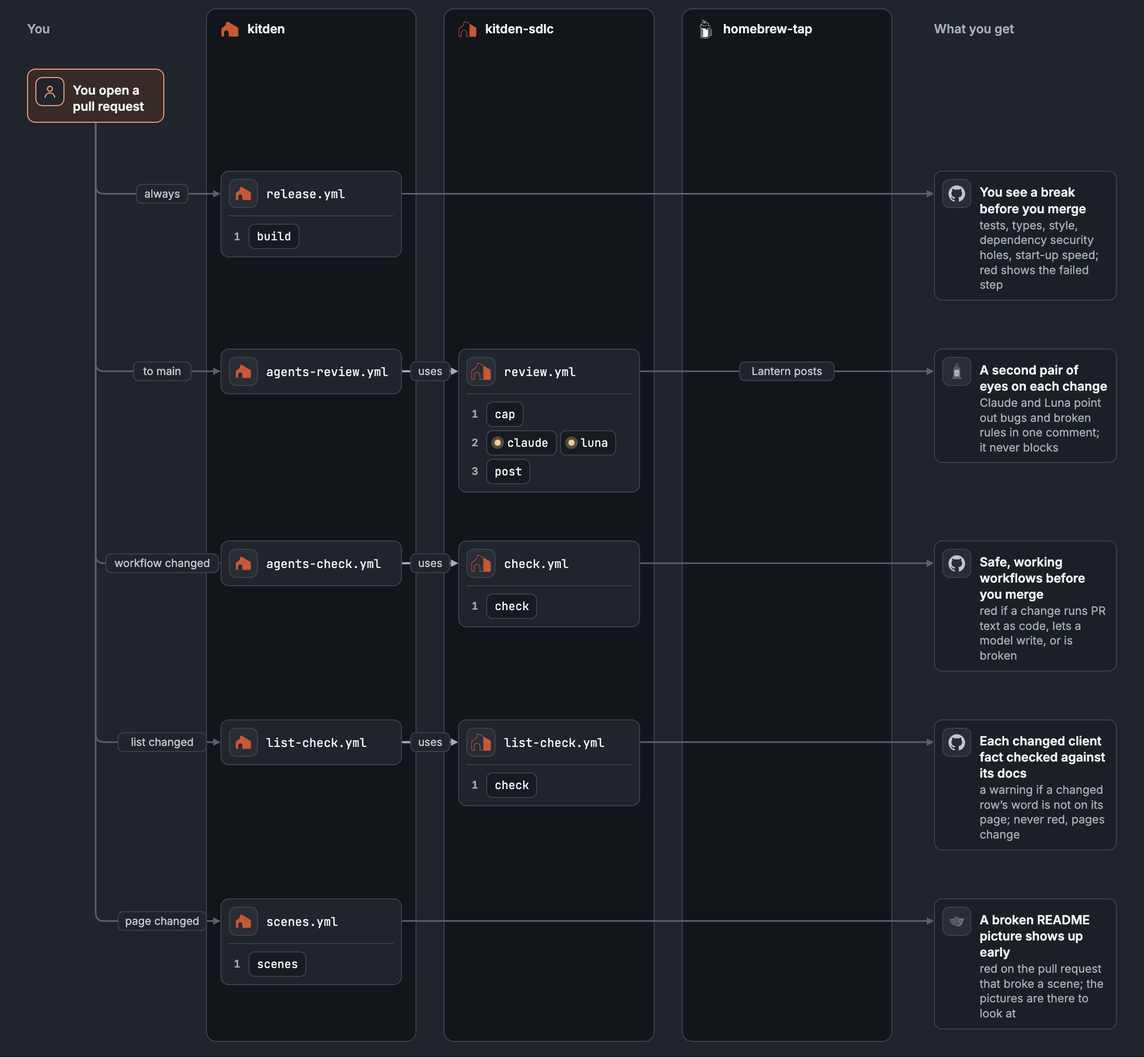
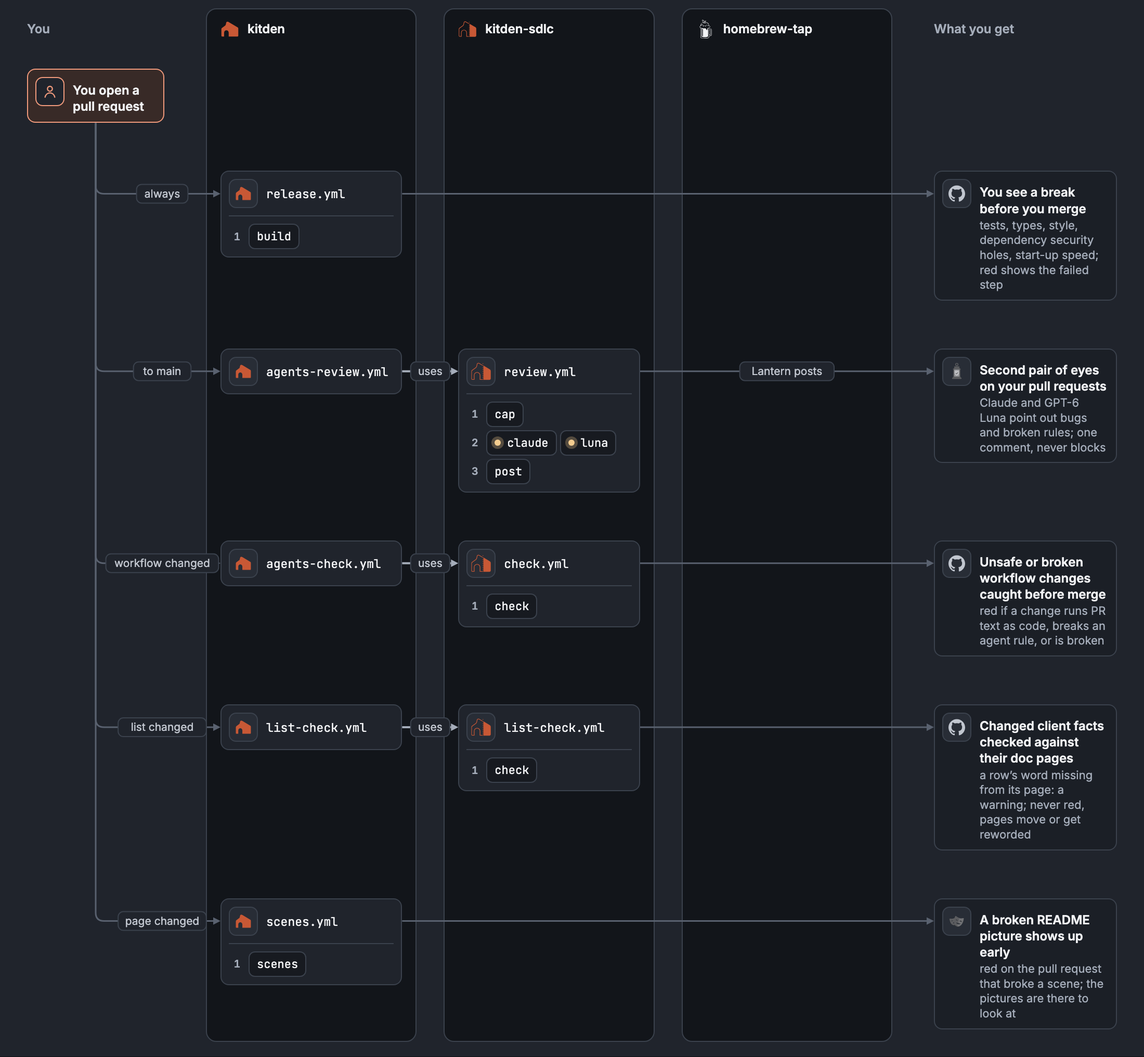
Claim only what each check does, and explain the last terms

diff --git a/docs/map/index.html b/docs/map/index.html
@@ -407,7 +407,7 @@ const REPO = {
 const SONNET = 'Claude Sonnet 5.5';
 /* A step is 'what it does|why': the part after | is the second, smaller line. A job's `about`,
    shown under its name, says what its steps have in common when they are of different kinds. */
-const HOSTS = 'Harden-Runner records every web address the job connects to|so a connection nobody expected shows; later the list becomes a limit';
+const HOSTS = 'Harden-Runner records every web address the job connects to|it only records for now: a connection nobody expected would show';
 /* Links between workflows, each with its other end: calls and calledBy when one uses the other,
    reads and readBy when one reads the other's runs without calling it. */
 const WF = [
@@ -415,16 +415,16 @@ const WF = [
   trigger:'Every pull request, every push to `main`, and a version tag `v*`',
   calls:['s-publish'], stages:[['build'],['publish','autotag'],['release','version'],['stores']],
   jobs:[
-   {n:'build', about:'Checks Kitden from every side; on macOS it also builds the package', tags:['macOS and Ubuntu'], when:'always',
+   {n:'build', about:'Checks Kitden’s code, tests, speed, workflows and dependencies; macOS also builds the package', tags:['macOS and Ubuntu'], when:'always',
     steps:['Install Kitden with the exact versions in `uv.lock`|on Ubuntu also the GNOME keyring, for the keyring test',
      'Check the code with `ruff` and its types with `pyright`|slips such as an unused import, bad formatting, text where a number belongs',
      'Run the Python tests with `pytest`|red if they run less than 94% of Kitden’s code',
      'On Ubuntu: save and read a secret in the real GNOME keyring|Kitden keeps server secrets in the keyring on Linux',
      'Test the code of Kitden’s web page in Node|with a stand-in page instead of a real browser',
-     'Time how fast Kitden’s page starts on a large sample|red if it misses a budget: usable in 2 s, done in 5 s',
+     'Time how fast Kitden’s page starts on a large sample setup|red if it misses a budget: usable in 2 s, done in 5 s',
      'Check the workflow files for unsafe settings with `zizmor`|e.g. pull request text run as code, a broad token, an unpinned action',
      'Check the dependencies with `pip-audit`|red if one has a published security hole',
-     'On a tag: the tag names this version, and its notes exist|`docs/releases/vX.Y.Z.md` becomes the text of the GitHub release',
+     'On a tag, on macOS: the tag names this version, notes exist|`docs/releases/vX.Y.Z.md` becomes the text of the GitHub release',
      'On macOS: kitden-sdlc’s release check of names and descriptions|they must match `listing.toml` and fit each store’s length limit',
      'On macOS: build the package, check it and keep it|it must hold Kitden only and run outside the checkout']},
    {n:'publish', tags:['no stored key'], when:'a `v*` tag, after build passed',
@@ -443,10 +443,10 @@ const WF = [
   trigger:'A pull request to `main` opens, reopens, gets new commits or leaves draft',
   calls:['s-review'], model:true, stages:[['review']],
   jobs:[{n:'review', about:'Kitden sets the review’s model and limit; kitden-sdlc does the review', tags:['calls kitden-sdlc'],
-    when:'`AGENTS_ENABLED` and `REVIEW_LIVE` on; not a fork, a bot, a draft or `no-agent-review`',
-    steps:['Name Claude’s model: `claude-sonnet-5-5`|Luna’s model is fixed in kitden-sdlc’s `review.yml`',
+    when:'the switches `AGENTS_ENABLED` (all agents) and `REVIEW_LIVE` (reviews) on; not a fork, a bot, a draft or `no-agent-review`',
+    steps:['Name Claude’s model: `claude-sonnet-5-5`|the model of GPT-6 Luna, the second reviewer, is set in `review.yml`',
      'Allow at most 20 reviews a day|the variable `AGENTS_REVIEW_DAILY_CAP` can change the number',
-     'Call kitden-sdlc’s `review.yml` with the three keys|Claude’s token, the OpenAI key and Lantern’s key']}]},
+     'Call kitden-sdlc’s `review.yml` with the three keys|Claude’s token, the OpenAI key, the key of Lantern, the posting app']}]},
  {id:'k-agents-check', r:'k', file:'agents-check.yml', kind:'caller',
   trigger:'A pull request that changes a file in `.github/workflows/`',
   calls:['s-check'], stages:[['check']],
@@ -466,8 +466,8 @@ const WF = [
  {id:'k-release-watch', r:'k', file:'release-watch.yml', kind:'caller',
   trigger:'Every day at 06:23 UTC, or by hand',
   calls:['s-release-watch'], stages:[['watch']],
-  jobs:[{n:'watch', tags:['calls kitden-sdlc'], when:'`AGENTS_ENABLED` is on',
-    steps:['Call kitden-sdlc’s `release-watch.yml` with Lantern’s key|Lantern, the bot app, opens and closes the issues']}]},
+  jobs:[{n:'watch', tags:['calls kitden-sdlc'], when:'the agents’ switch `AGENTS_ENABLED` is on',
+    steps:['Call kitden-sdlc’s `release-watch.yml` with Lantern’s key|Lantern, the app that posts comments and issues, writes them']}]},
  {id:'k-latest-deps', r:'k', file:'latest-deps.yml', kind:'own',
   trigger:'Every day at 05:17 UTC, or by hand',
   readBy:['s-desk'], stages:[['test']],
@@ -478,7 +478,7 @@ const WF = [
   trigger:'Every night at 02:37 UTC, or by hand',
   readBy:['s-desk'], stages:[['systems','clients','browser']],
   jobs:[
-   {n:'systems', about:'All of Kitden’s own checks, on one system and one Python per run', tags:['macOS ARM and Intel','Ubuntu x64 and ARM','Python 3.13 and 3.14','holds no secret'],
+   {n:'systems', about:'Kitden’s tests on each of 4 systems and 2 Pythons', tags:['macOS ARM and Intel','Ubuntu x64 and ARM','Python 3.13 and 3.14','holds no secret'],
     when:'always: 8 runs, one per system and Python',
     steps:['Install Kitden on this run’s Python, and check it is that one|so a pass really means that Python',
      'Run the Python tests with `pytest`|no coverage floor here: pull requests check that',
@@ -493,7 +493,7 @@ const WF = [
      'Stop if the runner is signed in to Claude Code or Codex|so a pass means Kitden works with no account',
      'Install the newest Claude Code and Codex with their own installers|not pinned on purpose: to meet each new version before users do',
      'Write the two versions into the run’s summary',
-     'Run Kitden’s contract tests against these real clients|does what Kitden reads and writes still work with these versions?',
+     'Run the tests that use the real clients’ files and commands|does what Kitden reads and writes still work with these versions?',
      'If something failed: keep the files the clients wrote, 7 days|they help build a new test fixture; they hold no secret']},
    {n:'browser', about:'Kitden’s page in a real browser, pressed as a user would', tags:['on Ubuntu','Playwright','holds no secret'], when:'always',
     steps:['Install Kitden',
@@ -506,32 +506,32 @@ const WF = [
   jobs:[{n:'scenes', tags:['on macOS'], when:'always',
     steps:['Install `ffmpeg`, `webp` and Chromium for the recorder|the recorder makes the README pictures with them',
      'Record every README scene once|red if a scene fails, so it shows in this pull request',
-     'Upload the pictures as the run’s file `scenes`|to look at; nothing is committed']}]},
+     'Keep the pictures with the run (an artifact named `scenes`)|to look at; nothing is committed']}]},
 
  {id:'s-review', r:'s', file:'review.yml', kind:'reusable',
   trigger:'Called by Kitden’s `agents-review.yml`',
   calledBy:['k-agents-review'], model:true, stages:[['cap'],['claude','luna'],['post']],
   jobs:[
    {n:'cap', tags:[], when:'always',
-    steps:['Count today’s review runs|cancelled and skipped runs do not count',
-     'At the cap: stop, no review today|Kitden’s cap is 20 a day unless its variable says otherwise']},
-   {n:'claude', about:'One reviewer: first make the checkout safe to read, then Claude reviews', tags:['model:'+SONNET,'harden'], when:'under the cap',
+    steps:['Count today’s reviews|a daily limit, because Claude shares your Max plan with your work',
+     'At the limit: stop, no review today|Kitden’s limit is 20 a day unless its variable says otherwise']},
+   {n:'claude', about:'The first reviewer, Claude: make the checkout safe, then review', tags:['model:'+SONNET,'harden'], when:'under the daily limit',
     steps:[HOSTS,
      'Check out the pull request, and kitden-sdlc beside it|kitden-sdlc brings the review skill Claude follows',
      'Collect the change, its description, and the base branch’s rules|`PRINCIPLES.md` and `AGENTS.md`: a pull request cannot change its own rules',
      'Delete the `CLAUDE.md` files and `.claude` folders in subfolders|the pull request could plant instructions there; the root ones come from the base',
      'Claude reviews: it reads files and writes only its findings|no shell, no web; 12 minutes at most',
-     'Keep the findings as a file of the run, for a day|the post job reads them; anyone signed in to GitHub can too']},
-   {n:'luna', about:'One reviewer: first make the checkout safe to read, then Luna reviews', tags:['model:GPT-6 Luna','harden'], when:'under the cap',
+     'Keep the findings with the run (an artifact), for a day|the post job reads them; anyone signed in to GitHub can too']},
+   {n:'luna', about:'The second reviewer, GPT-6 Luna: make the checkout safe, then review', tags:['model:GPT-6 Luna','harden'], when:'under the daily limit',
     steps:[HOSTS,
      'Check out the pull request, and kitden-sdlc beside it|kitden-sdlc brings Luna’s prompt',
      'Collect the change, its description, and the base branch’s rules|`PRINCIPLES.md` and `AGENTS.md`: a pull request cannot change its own rules',
      'Delete `AGENTS.md`, `.agents` and `.codex` from the checkout|Codex would follow them as instructions; the pull request controls them',
      'Luna reviews in a read-only sandbox with no network|no web search; 12 minutes at most',
-     'Keep the findings as a file of the run, for a day|the post job reads them; anyone signed in to GitHub can too']},
-   {n:'post', about:'Turns both reviewers’ findings into one comment, with no model', tags:['no model','as Lantern'], when:'under the cap, once one reviewer or both finished',
+     'Keep the findings with the run (an artifact), for a day|the post job reads them; anyone signed in to GitHub can too']},
+   {n:'post', about:'Turns both reviewers’ findings into one comment, with no model', tags:['no model','as Lantern'], when:'under the daily limit, once one reviewer or both finished',
     steps:['Download both reviewers’ findings|no file: that reviewer gave no answer, and the comment says so',
-     'Sign in as Lantern, the review app|its token may only write to pull requests',
+     'Sign in as Lantern, the app that posts comments and issues|its token may only write to pull requests',
      'Refuse text that looks like a secret or a stray random string|a model must never post a key; a refusal turns the job red',
      'Post one “Agent review” comment, or edit the earlier one|findings from earlier pushes stay, as fixed or not repeated']}
   ]},
@@ -541,34 +541,34 @@ const WF = [
   jobs:[{n:'check', about:'Checks every workflow file, as the pull request leaves it, three ways', tags:['no model','read only'], when:'always',
     steps:['Security, with `zizmor`: settings an attacker could abuse|e.g. pull request text run as code, a broad token, an unpinned action',
      'Errors, with `actionlint`: what would fail or misbehave|e.g. bad YAML, a misspelled key, a broken shell line',
-     'Agent rules: the rule checker tests each workflow against `RULES.md`|e.g. a job with a model’s key may not write']}]},
+     'Agent rules: the rule checker tests agent workflows against `RULES.md`|it checks 7 of the 11, e.g. no time limit, an unpinned action']}]},
  {id:'s-list-check', r:'s', file:'list-check.yml', kind:'reusable',
   trigger:'Called by Kitden’s `list-check.yml`',
   calledBy:['k-list-check'], stages:[['check']],
-  jobs:[{n:'check', about:'Checks each changed row of Kitden’s list against its doc page', tags:['no model','holds no secret','harden'], when:'always',
+  jobs:[{n:'check', about:'Checks each changed row that names a doc page against that page', tags:['no model','holds no secret','harden'], when:'always',
     steps:['Harden-Runner records every web address the job connects to|the script reads vendors’ pages: an unexpected address would show',
      'Take `docs/clients.md`, Kitden’s list of client facts, before and after|the two copies show which rows the pull request adds or changes',
-     'For each such row, read the doc page its `Source` column names|at most 20 pages; a row marked `guess` gets a warning too',
+     'Read the doc page each such row names in its `Source` column|at most 20; a row whose Source is `guess` (no page) gets a warning',
      'Warn when a word the row writes in backticks is not there|e.g. a setting or file name: the row may be wrong or old',
      'Sum up in the run’s summary: counts, and each row’s missing words|it never fails for a row: pages move, go down or are reworded']}]},
  {id:'s-release-prep', r:'s', file:'release-prep.yml', kind:'reusable',
   trigger:'Called by Kitden’s `release-prep.yml`',
   calledBy:['k-release-prep'], model:true, stages:[['guard'],['prepare'],['agent'],['bump'],['check','record'],['fix'],['final-check'],['open-pr']],
   jobs:[
-   {n:'guard', tags:[], when:'`AGENTS_ENABLED` is on',
+   {n:'guard', tags:[], when:'the agents’ switch `AGENTS_ENABLED` is on',
     steps:['Only for Kitden, and only from `main`|started anywhere else, it stops at once',
      'Stop while a release PR is open or 3 bot PRs wait|the run’s summary then says why, and nothing else runs']},
    {n:'prepare', tags:[], when:'the guard let it start',
     steps:['Collect what changed since the last tag into `context.json`|the log, the merged pull requests, how much each file changed',
      'Stop if Kitden already has the branch `prepare-vX.Y.Z`|left from an earlier run: delete it and run again']},
-   {n:'agent', about:'Claude writes the release texts; it may only read, and write into `out/`', tags:['model:'+SONNET,'harden'], when:'after prepare',
+   {n:'agent', about:'Claude writes the release texts: steps 2–5 are one step in the run log', tags:['model:'+SONNET,'harden'], when:'after prepare',
     steps:[HOSTS,
      'Claude writes the release notes with the `release-notes` skill|it may read files and write only into the folder `out/`',
      'Claude updates the README with the `readme-kitden` skill|it reads the new release notes first',
      'Claude edits the policy files this release made untrue|`SECURITY.md`, `PRIVACY.md`, `AI_POLICY.md`, `listing.toml`',
      'Claude checks the changes against each store’s rules|from `docs/platform-rules.md`; steps you must do by hand are listed']},
    {n:'bump', tags:['no model'], when:'after agent',
-    steps:['Take the version: yours, or the one Claude picked|only the next minor or patch version is accepted',
+    steps:['Take the version: from your choice, or Claude’s pick|only the next minor or patch version is accepted',
      'A script writes it into every Kitden file that holds it|and stops if the branch `prepare-vX.Y.Z` exists']},
    {n:'check', about:'Scripts test Claude’s files; what they find goes to the fix job', tags:['no model','holds no secret'], when:'after bump',
     steps:['Put Claude’s files into Kitden and run Kitden’s docs tests|test files Kitden names, e.g. `test_docs_words.py`',
@@ -584,7 +584,7 @@ const WF = [
    {n:'final-check', tags:['no model'], when:'after fix and record, also when fix was skipped',
     steps:['The same checks again, on the fixed files, with the pictures|no second fix: what is left goes into the PR body']},
    {n:'open-pr', about:'Turns the checked files into the release pull request, as Beacon', tags:['no model','as Beacon, the release app'],
-    when:'final check finished; started from `main`',
+    when:'final check ran through; started from `main`',
     steps:['Sign in as Beacon, the release app|a short-lived token that writes Kitden’s files and pull requests',
      'Commit to a new branch, `prepare-vX.Y.Z`|first a script refuses any text that looks like a secret',
      'Open the pull request “Kitden X.Y.Z” for you to review|its body has Claude’s findings, the checks and the pictures',
@@ -612,7 +612,7 @@ const WF = [
  {id:'s-release-watch', r:'s', file:'release-watch.yml', kind:'reusable',
   trigger:'Called by Kitden’s `release-watch.yml`',
   calledBy:['k-release-watch'], stages:[['watch']],
-  jobs:[{n:'watch', about:'Turns public facts about releases into issues in Kitden', tags:['no model','as Lantern'], when:'`AGENTS_ENABLED` is on',
+  jobs:[{n:'watch', about:'Turns public facts about releases into issues in Kitden', tags:['no model','as Lantern'], when:'the agents’ switch `AGENTS_ENABLED` is on',
     steps:['Open “Time for a release?” when merged changes wait for a release|to `src/`, `plugins/` or `install.*`; after 7 days, sooner for a bug',
      'Open “Release vX.Y.Z is not everywhere” when a store is behind|PyPI, GitHub, MCP Registry, Homebrew after 48 hours, and more',
      'Close such an issue on its own once it no longer holds|it never touches an issue a person opened']}]},
@@ -620,7 +620,7 @@ const WF = [
   trigger:'Every day at 05:17 UTC, or by hand',
   model:true, stages:[['fetch'],['judge'],['post'],['eval']],
   jobs:[
-   {n:'fetch', tags:['holds no secret'], when:'both switches on: `AGENTS_ENABLED` and `WATCH_LIVE`',
+   {n:'fetch', tags:['holds no secret'], when:'the switches `AGENTS_ENABLED` (all agents) and `WATCH_LIVE` (the watcher) are on',
     steps:['Read what is new from Claude Code, Codex and Cursor|their release notes, and the doc pages Kitden’s list names',
      'Cut what is new into pieces and keep them in `input.json`|with Kitden’s list and the files it names, for the judge']},
    {n:'judge', tags:['model:'+SONNET,'harden','langfuse'], when:'fetch found something new',
@@ -629,7 +629,7 @@ const WF = [
      'At most 60 model calls in a run|what does not fit waits for the next day',
      'Write the findings to `findings.json`; no tools, no write rights|the model only turns text into findings']},
    {n:'post', tags:['no model','as Lantern'], when:'after judge, or when nothing was new',
-    steps:['Check the findings, then open issues in Kitden as Lantern|a sure break gets its own issue; the rest waits for the weekly summary',
+    steps:['Check the findings; Lantern, the posting app, opens issues in Kitden|a sure break gets its own issue; the rest waits for the weekly summary',
      'Save what it has read to the `watch` branch|so the next run reads only what is new']},
    {n:'eval', tags:['model:the model you pick','harden','langfuse'], when:'by hand only, with `eval` ticked',
     steps:[HOSTS,
@@ -642,10 +642,10 @@ const WF = [
   jobs:[
    {n:'measure', about:'Works out from facts, with no model, what is healthy and what waits', tags:['no model'], when:'always',
     steps:['Read the facts: checks on `main`, nightly runs, issues, reviews|and whether this map still matches the workflow files',
-     'Turn them into five lights and what waits for you|a light shows the worst fact it read; grey: not read',
-     'Commit `desk.json` and the numbers to the `numbers` branch|`main` takes pull requests only; only a run from `main` commits']},
-   {n:'post', about:'Shows the desk in Kitden as issues, posted by Lantern', tags:['no model','as Lantern'], when:'`AGENTS_ENABLED` is on, on `main`',
-    steps:['Rewrite the “Kitden desk” issue from `desk.json`|one pinned issue: the five lights and what waits for you',
+     'Turn them into five status lights and what waits for you|green, amber or red by the worst fact read; grey: not read',
+     'Commit `desk.json` and the week’s numbers to a side branch, `numbers`|`main` takes pull requests only; only a run from `main` commits']},
+   {n:'post', about:'Lantern, the app that posts comments and issues, shows the desk in Kitden', tags:['no model','as Lantern'], when:'the agents’ switch `AGENTS_ENABLED` is on, on `main`',
+    steps:['Rewrite the “Kitden desk” issue from `desk.json`|one issue: the five status lights and what waits for you',
      'Open a `ci-failure` issue for each red nightly part|closed on its own once that part is green']}
   ]},
  {id:'s-checks', r:'s', file:'checks.yml', kind:'own',
@@ -653,7 +653,7 @@ const WF = [
   stages:[['checks']],
   jobs:[{n:'checks', about:'Checks kitden-sdlc itself: first its Python code, then its workflow files', tags:['no model'], when:'always',
     steps:['Python: `ruff` for slips, then the tests with `pytest`',
-     'Agent rules: the rule checker tests these workflows against `RULES.md`|e.g. a job with a model’s key may not write',
+     'Agent rules: the rule checker tests these workflows against `RULES.md`|it checks 7 of the 11, e.g. no time limit, an unpinned action',
      'Security and errors: `zizmor` and `actionlint`|unsafe settings, and files that would fail or misbehave']}]},
 
  {id:'t-tests', r:'t', file:'tests.yml', kind:'own',
@@ -662,22 +662,22 @@ const WF = [
   jobs:[{n:'test-bot', about:'Homebrew’s own test robot, `brew test-bot`, on the tap’s formula', tags:['macOS 26 and Ubuntu'], when:'always',
     steps:['Check the syntax of the tap’s formula files',
      'On a pull request: build Kitden from the formula and test it|the builds become bottles: ready-built packages for `brew`',
-     'On a pull request: keep the bottles as files of the run|`brew pr-pull` takes them from there later']}]},
+     'On a pull request: keep the bottles with the run (artifacts)|`brew pr-pull` takes them from there later']}]},
  {id:'t-auto-pull', r:'t', file:'auto-pull.yml', kind:'own',
   trigger:'A run of `brew test-bot` (`tests.yml`) finishes',
   stages:[['auto-pull']],
-  jobs:[{n:'auto-pull', about:'Publishes a bump pull request with no Merge button, only when it is safe', tags:['no model'],
+  jobs:[{n:'auto-pull', about:'Publishes a safe bump pull request; nobody presses Merge', tags:['no model'],
     when:'the test passed, on a `bump-kitden-*` PR of the tap itself',
     steps:['Check the pull request: open, into `main`, opened by a trusted bot|Beacon, Kettle or `github-actions[bot]`; anyone else turns the run red',
      'Check it changes only `Formula/kitden.rb`, at the tested commit|anything else turns the run red, and nothing is published',
-     'Start the tap’s `publish.yml` for this pull request, and wait|that run publishes the formula and bottles; nobody presses Merge',
+     'Start the tap’s `publish.yml` for this pull request, and wait|that run publishes the formula and its bottles (ready-built packages)',
      'Check `main`’s formula has the new version and its bottles']}]},
  {id:'t-publish', r:'t', file:'publish.yml', kind:'own',
   trigger:'Started by `auto-pull.yml`, or by hand, for one pull request',
   stages:[['pr-pull']],
   jobs:[{n:'pr-pull', tags:[], when:'always',
-    steps:['`brew pr-pull` takes the pull request and the bottles test-bot built|it uploads the bottles and writes their address into the formula',
-     'Attest the bottles: a signed record of where they were built|anyone can check a bottle came from this workflow',
+    steps:['`brew pr-pull` takes the PR and its bottles (ready-built packages)|built by test-bot; it uploads them and writes their address into the formula',
+     'Sign a record of where the bottles were built|anyone can check a bottle came from this workflow',
      'Push the formula and bottle commits to the tap’s `main`|then `brew install kitden` gets the new version']}]},
  {id:'t-autobump', r:'t', file:'autobump.yml', kind:'own',
   trigger:'Every day at 13:10 UTC, and when this file changes on `main`',
@@ -757,9 +757,9 @@ const STORIES = {
     rows:[
       [{id:'you', kind:'you', t:'You open a pull request'}],
       [{id:'ci', wf:'k-release', stages:[['build']]}, {id:'t1', kind:'thing', ic:'github', t:'You see a break before you merge', sub:'tests, types, style, dependency security holes, start-up speed; red shows the failed step'}],
-      [{wf:'k-agents-review'}, {wf:'s-review'}, {id:'t2', kind:'thing', ic:'lantern', t:'A second pair of eyes on each change', sub:'Claude and Luna point out bugs and broken rules in one comment; it never blocks'}],
-      [{wf:'k-agents-check'}, {wf:'s-check'}, {id:'t3', kind:'thing', ic:'github', t:'Safe, working workflows before you merge', sub:'red if a change runs PR text as code, lets a model write, or is broken'}],
-      [{wf:'k-list-check'}, {wf:'s-list-check'}, {id:'t5', kind:'thing', ic:'github', t:'Each changed client fact checked against its docs', sub:'a warning if a changed row’s word is not on its page; never red, pages change'}],
+      [{wf:'k-agents-review'}, {wf:'s-review'}, {id:'t2', kind:'thing', ic:'lantern', t:'Second pair of eyes on your pull requests', sub:'Claude and GPT-6 Luna point out bugs and broken rules; one comment, never blocks'}],
+      [{wf:'k-agents-check'}, {wf:'s-check'}, {id:'t3', kind:'thing', ic:'github', t:'Unsafe or broken workflow changes caught before merge', sub:'red if a change runs PR text as code, breaks an agent rule, or is broken'}],
+      [{wf:'k-list-check'}, {wf:'s-list-check'}, {id:'t5', kind:'thing', ic:'github', t:'Changed client facts checked against their doc pages', sub:'a row’s word missing from its page: a warning; never red, pages move or get reworded'}],
       [{wf:'k-scenes'}, {id:'t4', kind:'thing', ic:'playwright', t:'A broken README picture shows up early', sub:'red on the pull request that broke a scene; the pictures are there to look at'}]
     ],
     edges:[['you','ci','always','l'],['ci','t1','','h'],
@@ -776,7 +776,7 @@ const STORIES = {
        {id:'bump', kind:'thing', lane:'t', ic:'beacon', t:'PR bump-kitden in the tap', sub:'Homebrew gets the new version; nobody has to merge it'}],
       [{wf:'t-tests'}],
       [{wf:'t-auto-pull'}],
-      [{wf:'t-publish'}, {id:'brew', kind:'thing', ic:'homebrew', t:'brew install kitden gets the new version', sub:'ready-built for macOS and Linux, with no step by hand'}]
+      [{wf:'t-publish'}, {id:'brew', kind:'thing', ic:'homebrew', t:'brew install kitden gets the new version', sub:'ready-built for macOS 26 and Linux x64, with no step by hand'}]
     ],
     edges:[['run','k-release-prep','starts','h'],['k-release-prep','s-release-prep','uses','h'],['s-release-prep','pr','Beacon opens','h'],
       ['pr','merge','waits for you','z'],['merge','rel1','push','h'],['rel1','tag','Beacon tags','h'],
@@ -785,7 +785,7 @@ const STORIES = {
   day:{note:'Times are UTC. Nothing here needs you until an issue, a pull request or a red run shows up.',
     rows:[
       [{id:'c0', kind:'clock', t:'02:37'}, {wf:'k-nightly'}, {id:'d0', kind:'thing', ic:'github', t:'Breaks found before your users find them', sub:'4 systems, newest Claude Code and Codex, a real browser; red: a ci-failure issue'}],
-      [{id:'c1', kind:'clock', t:'05:17'}, {wf:'s-watch', stages:[['fetch'],['judge'],['post']]}, {id:'d1', kind:'thing', ic:'lantern', t:'Warned when a client change breaks Kitden', sub:'an issue for a sure break, the rest weekly; label it confirmed or close it'}],
+      [{id:'c1', kind:'clock', t:'05:17'}, {wf:'s-watch', stages:[['fetch'],['judge'],['post']]}, {id:'d1', kind:'thing', ic:'lantern', t:'Warned when a client change breaks Kitden', sub:'a sure break gets an issue, the rest a weekly summary; confirm it or close it'}],
       [{id:'c2', kind:'clock', t:'05:17'}, {wf:'k-latest-deps'}, {id:'d2', kind:'thing', ic:'github', t:'A broken new dependency, caught first', sub:'before people who install Kitden meet it; red: a ci-failure issue'}],
       [{id:'c3', kind:'clock', t:'06:23'}, {wf:'k-release-watch'}, {wf:'s-release-watch'}, {id:'d3', kind:'thing', ic:'lantern', t:'Merged work does not sit unreleased', sub:'“Time for a release?” when changes wait; “not everywhere” when a store lags', go:'rel'}],
       [{id:'c4', kind:'clock', t:'06:41'}, {wf:'s-desk'}, {id:'d4', kind:'thing', ic:'lantern', t:'Health and your to-do in one place', sub:'the “Kitden desk” issue: five lights and what waits for you, every day'}],

diff --git a/tests/test_map_text.py b/tests/test_map_text.py
@@ -247,7 +247,8 @@ def test_every_step_in_the_workflows_view_shows_its_number_never_an_icon():
 
 def test_every_step_is_one_short_line_with_at_most_one_short_why():
     """A step reads 'what it does|why': at most 12 words, then at most 14. A job's `about`
-    line, which says what its steps share, is at most 14 words too."""
+    line, which says what its steps share, is at most 14 words too, and a result card has a
+    title of at most 8 words and a line of at most 16."""
     wf = HTML.split("\nconst WF = [\n")[1].split("\n];")[0]
     hosts = re.search(r"\nconst HOSTS = '([^'\\]*)';", HTML).group(1)
     lists = re.findall(r"steps:\[((?:HOSTS|'[^'\\]*'|\s|,)*)\]", wf)
@@ -261,6 +262,11 @@ def test_every_step_is_one_short_line_with_at_most_one_short_why():
         assert all(0 < len(w.split()) <= 14 for w in why), text
     for about in re.findall(r"about:'([^'\\]*)'", wf):
         assert 0 < len(about.split()) <= 14, about
+    stories = HTML.split("const STORIES = {")[1].split("\n};")[0]
+    cards = re.findall(r"kind:'thing'[^}]*?t:'([^'\\]*)'(?:, sub:'([^'\\]*)')?", stories)
+    assert len(cards) == 15
+    for title, line in cards:  # a result card: at most 8 words, then at most 16
+        assert len(title.split()) <= 8 and len(line.split()) <= 16, (title, line)
     assert "'<span class=\"why\">'" in HTML
 
 
